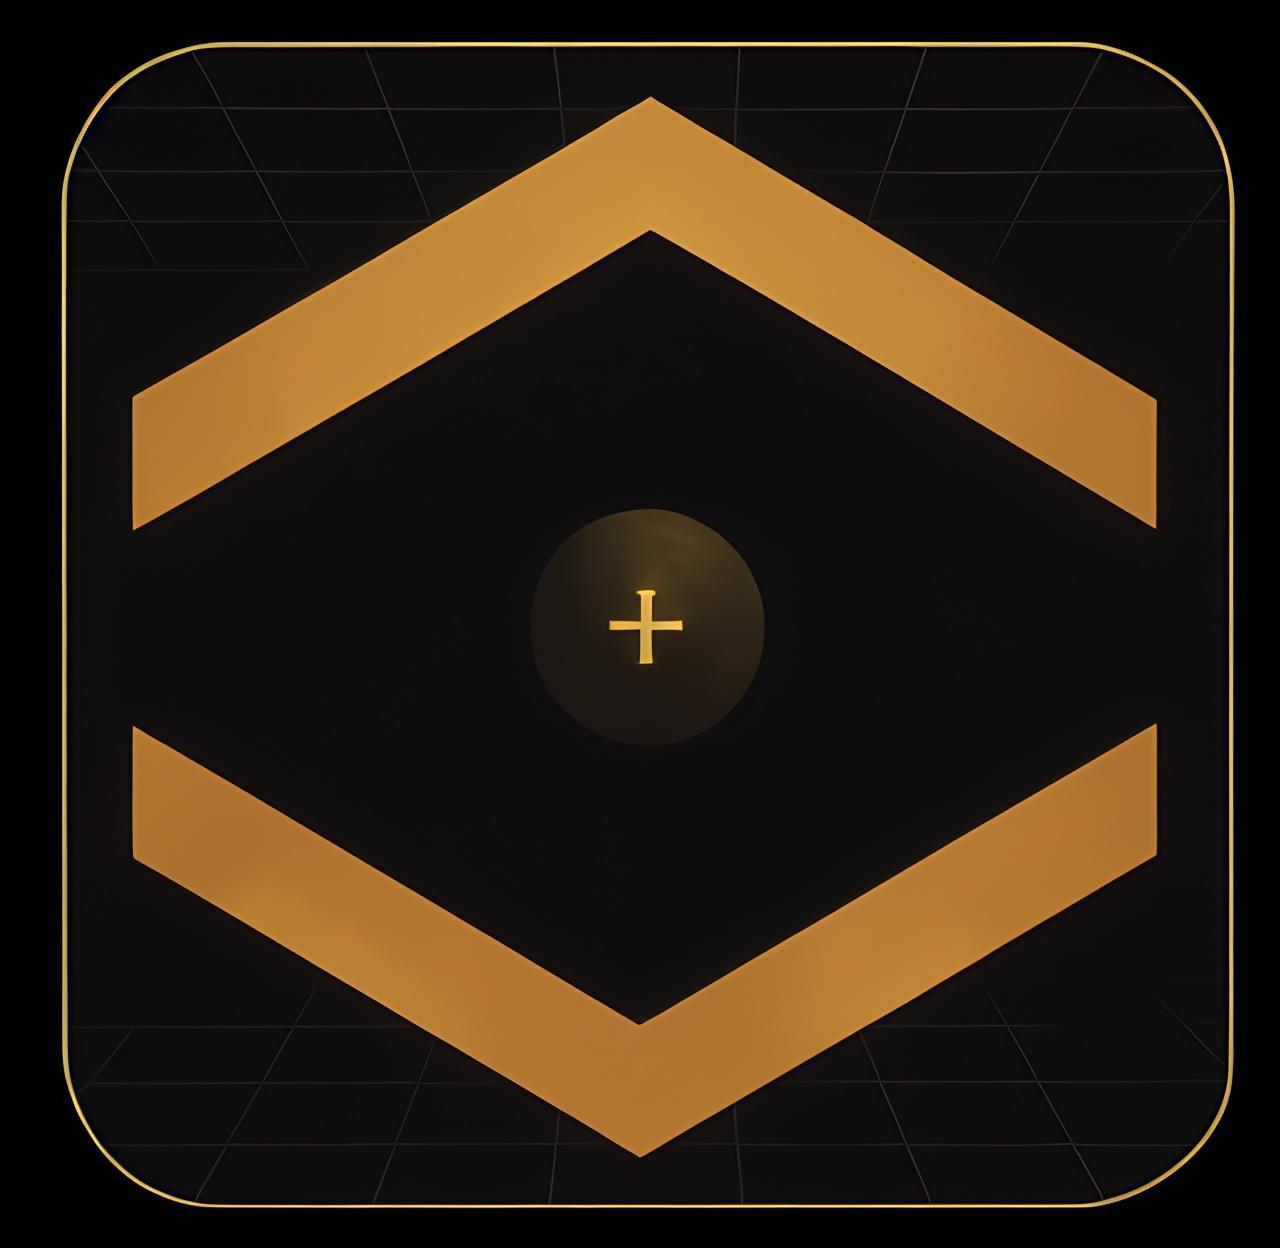
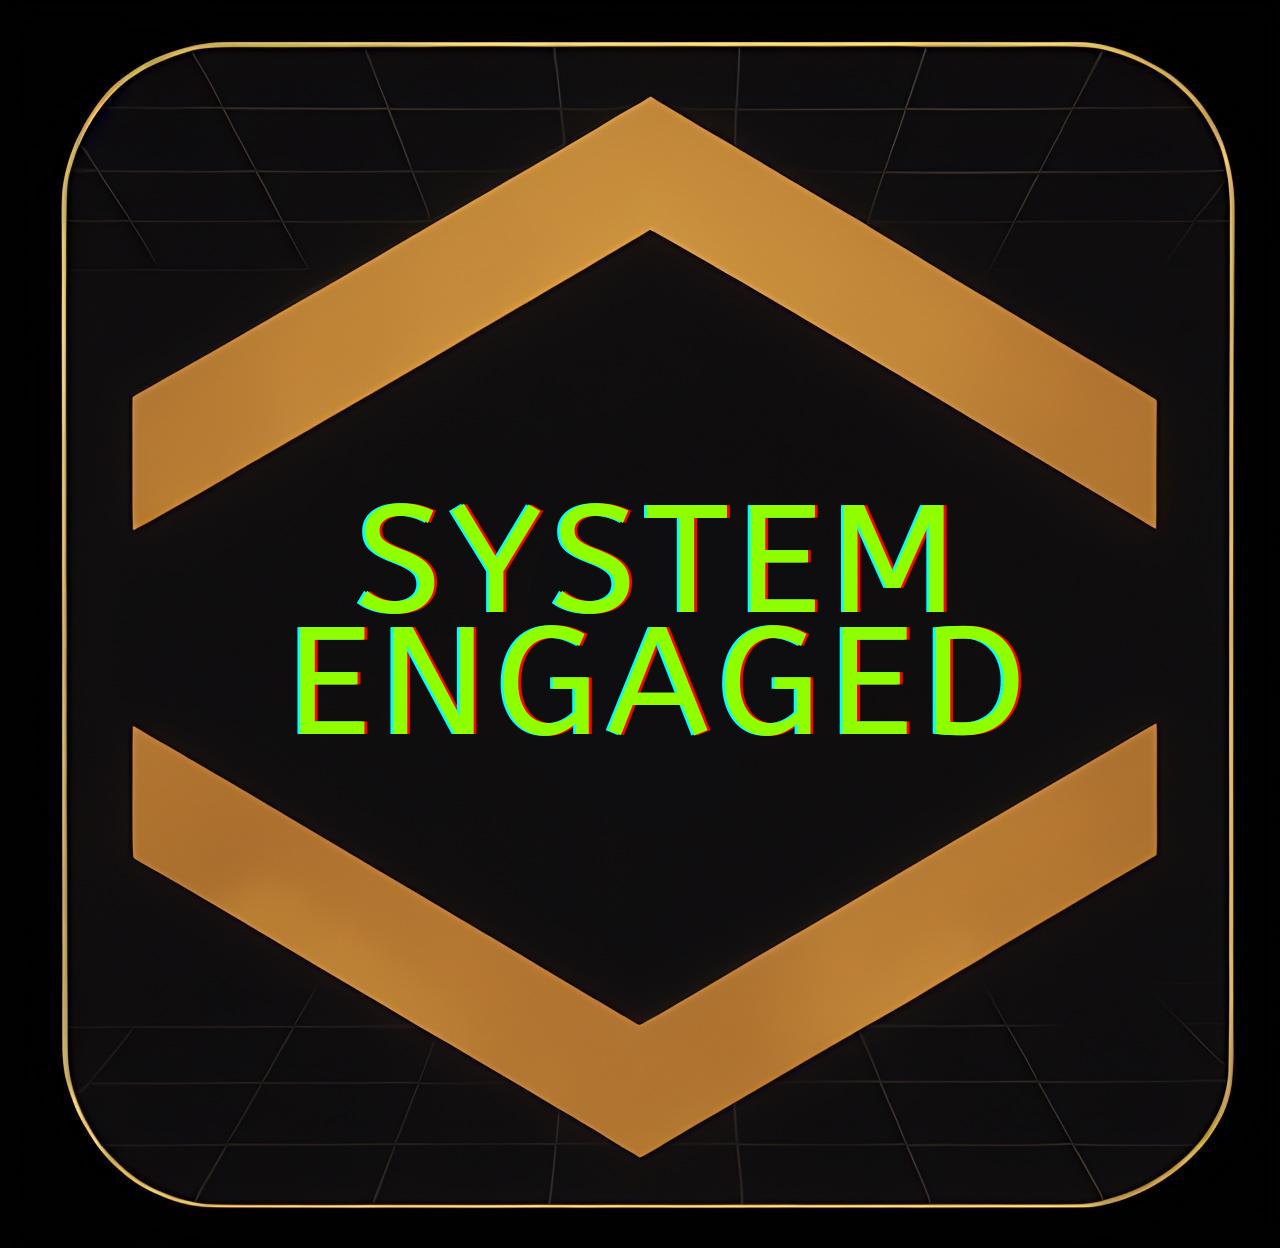
graphics

Changed region(s): [[0.2188, 0.4062, 0.8125, 0.5938]]

diff --git a/frontend/app/api/frame/route.ts b/frontend/app/api/frame/route.ts
@@ -72,7 +72,7 @@ export async function POST(req: NextRequest): Promise<Response> {
         }
       ],
       image: {
-        src: `${NEXT_PUBLIC_URL}/kwentize.png`,
+        src: `${NEXT_PUBLIC_URL}/kwentize_1.png`,
       },
       postUrl: `${NEXT_PUBLIC_URL}/api/relay`,
     }),
